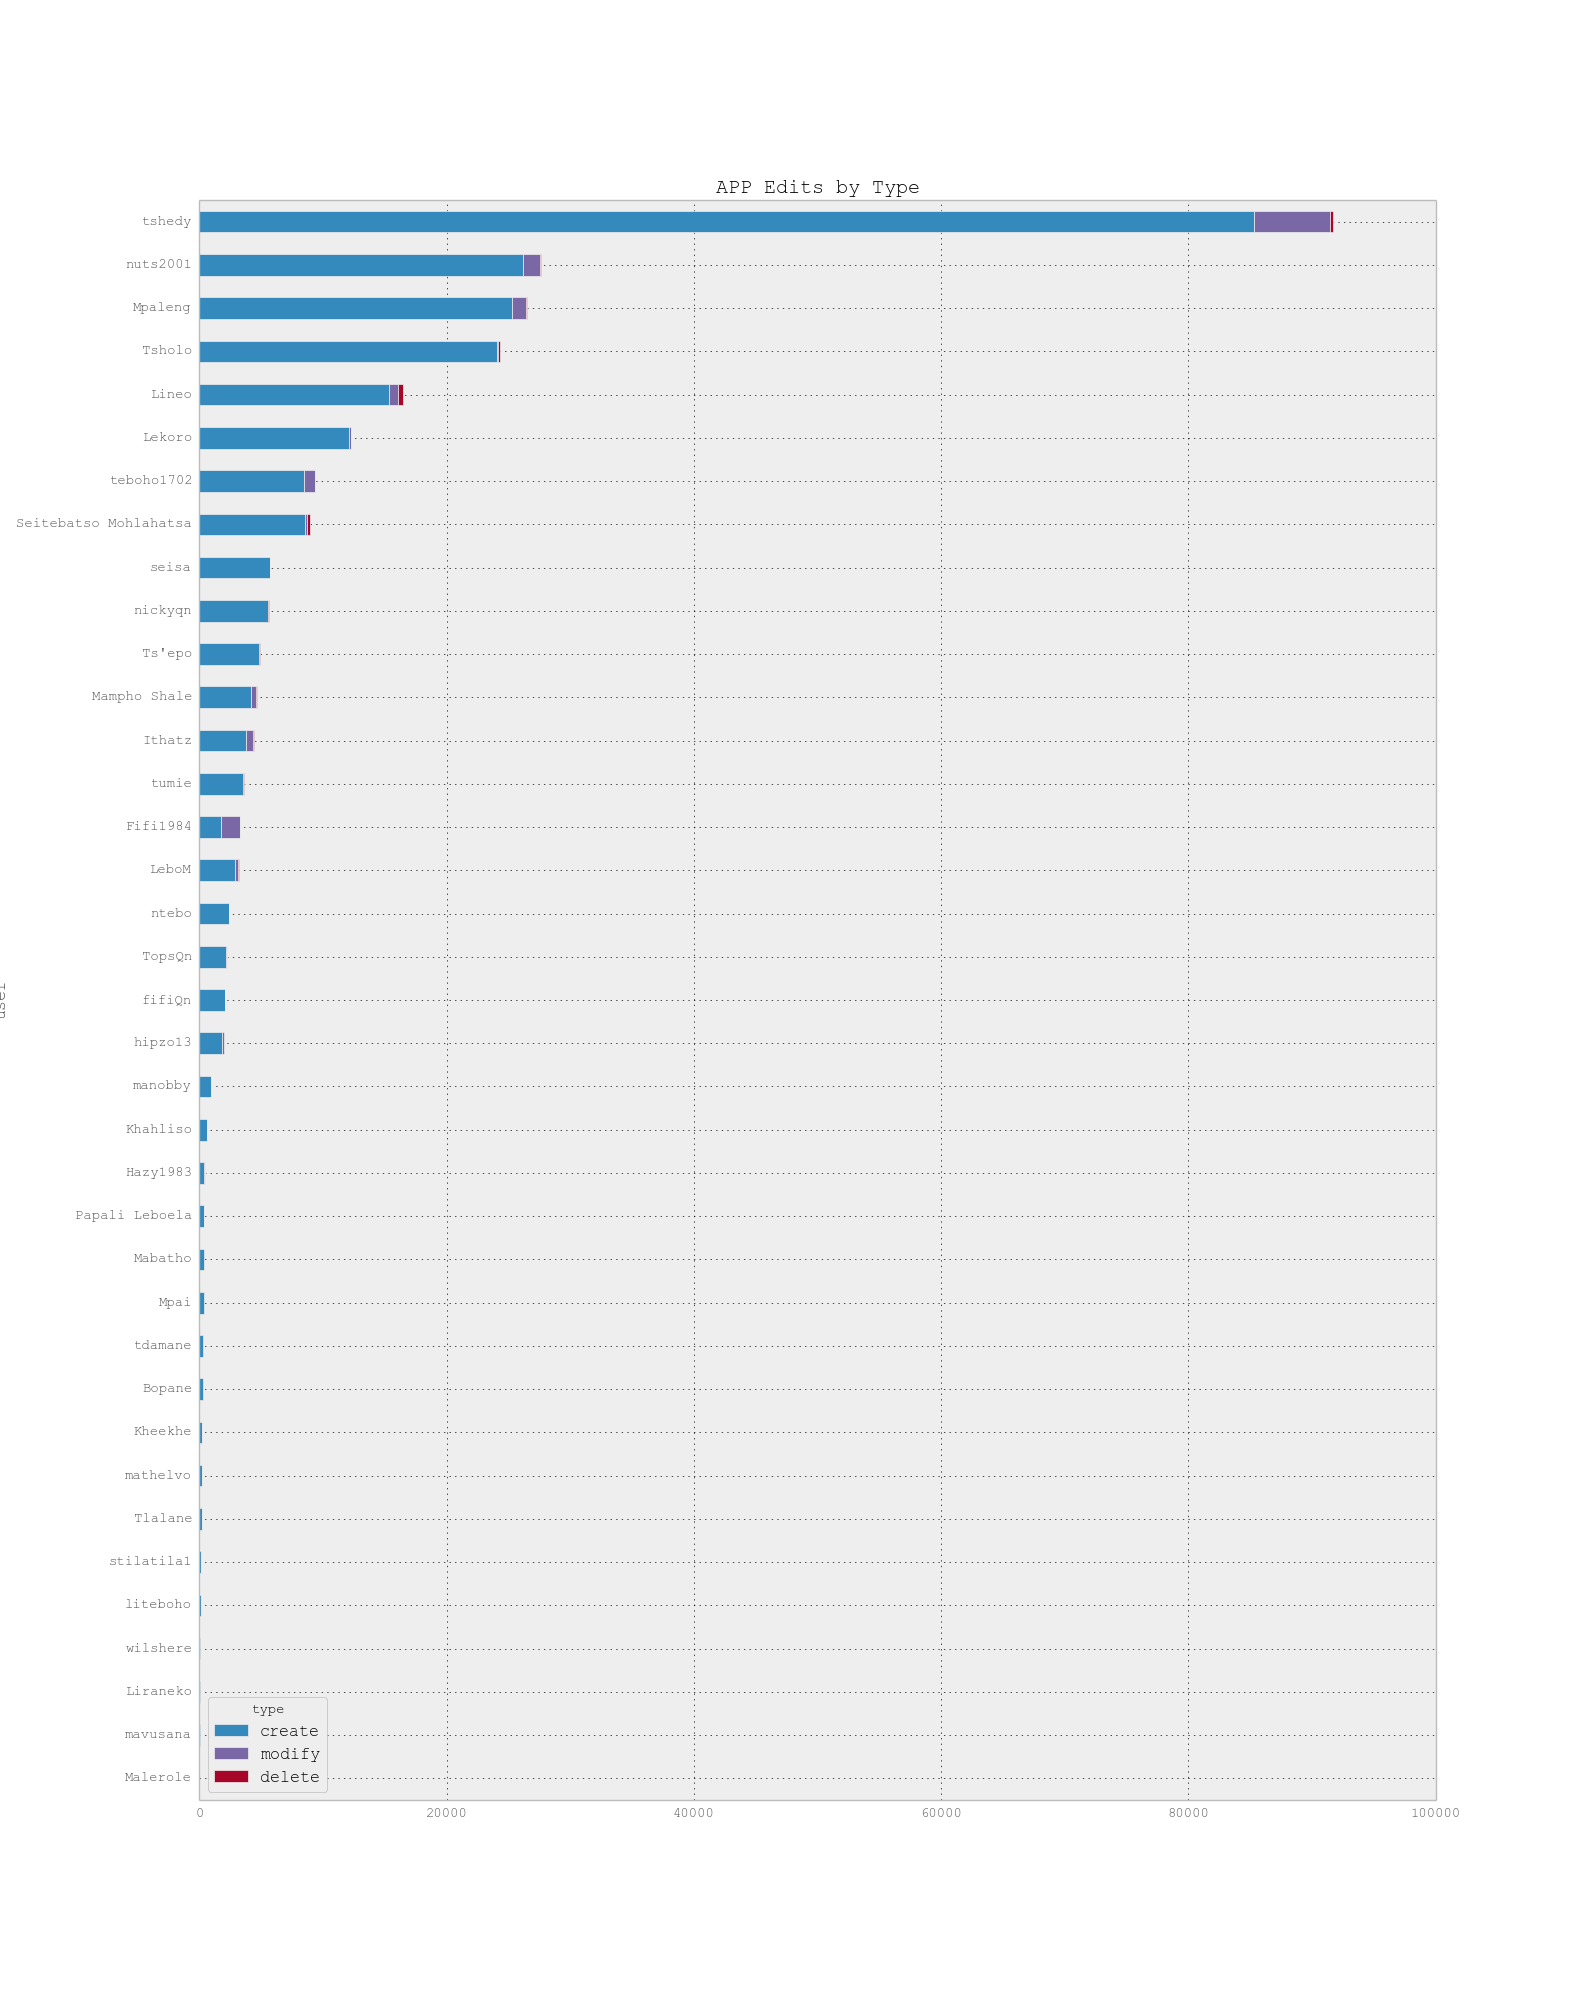
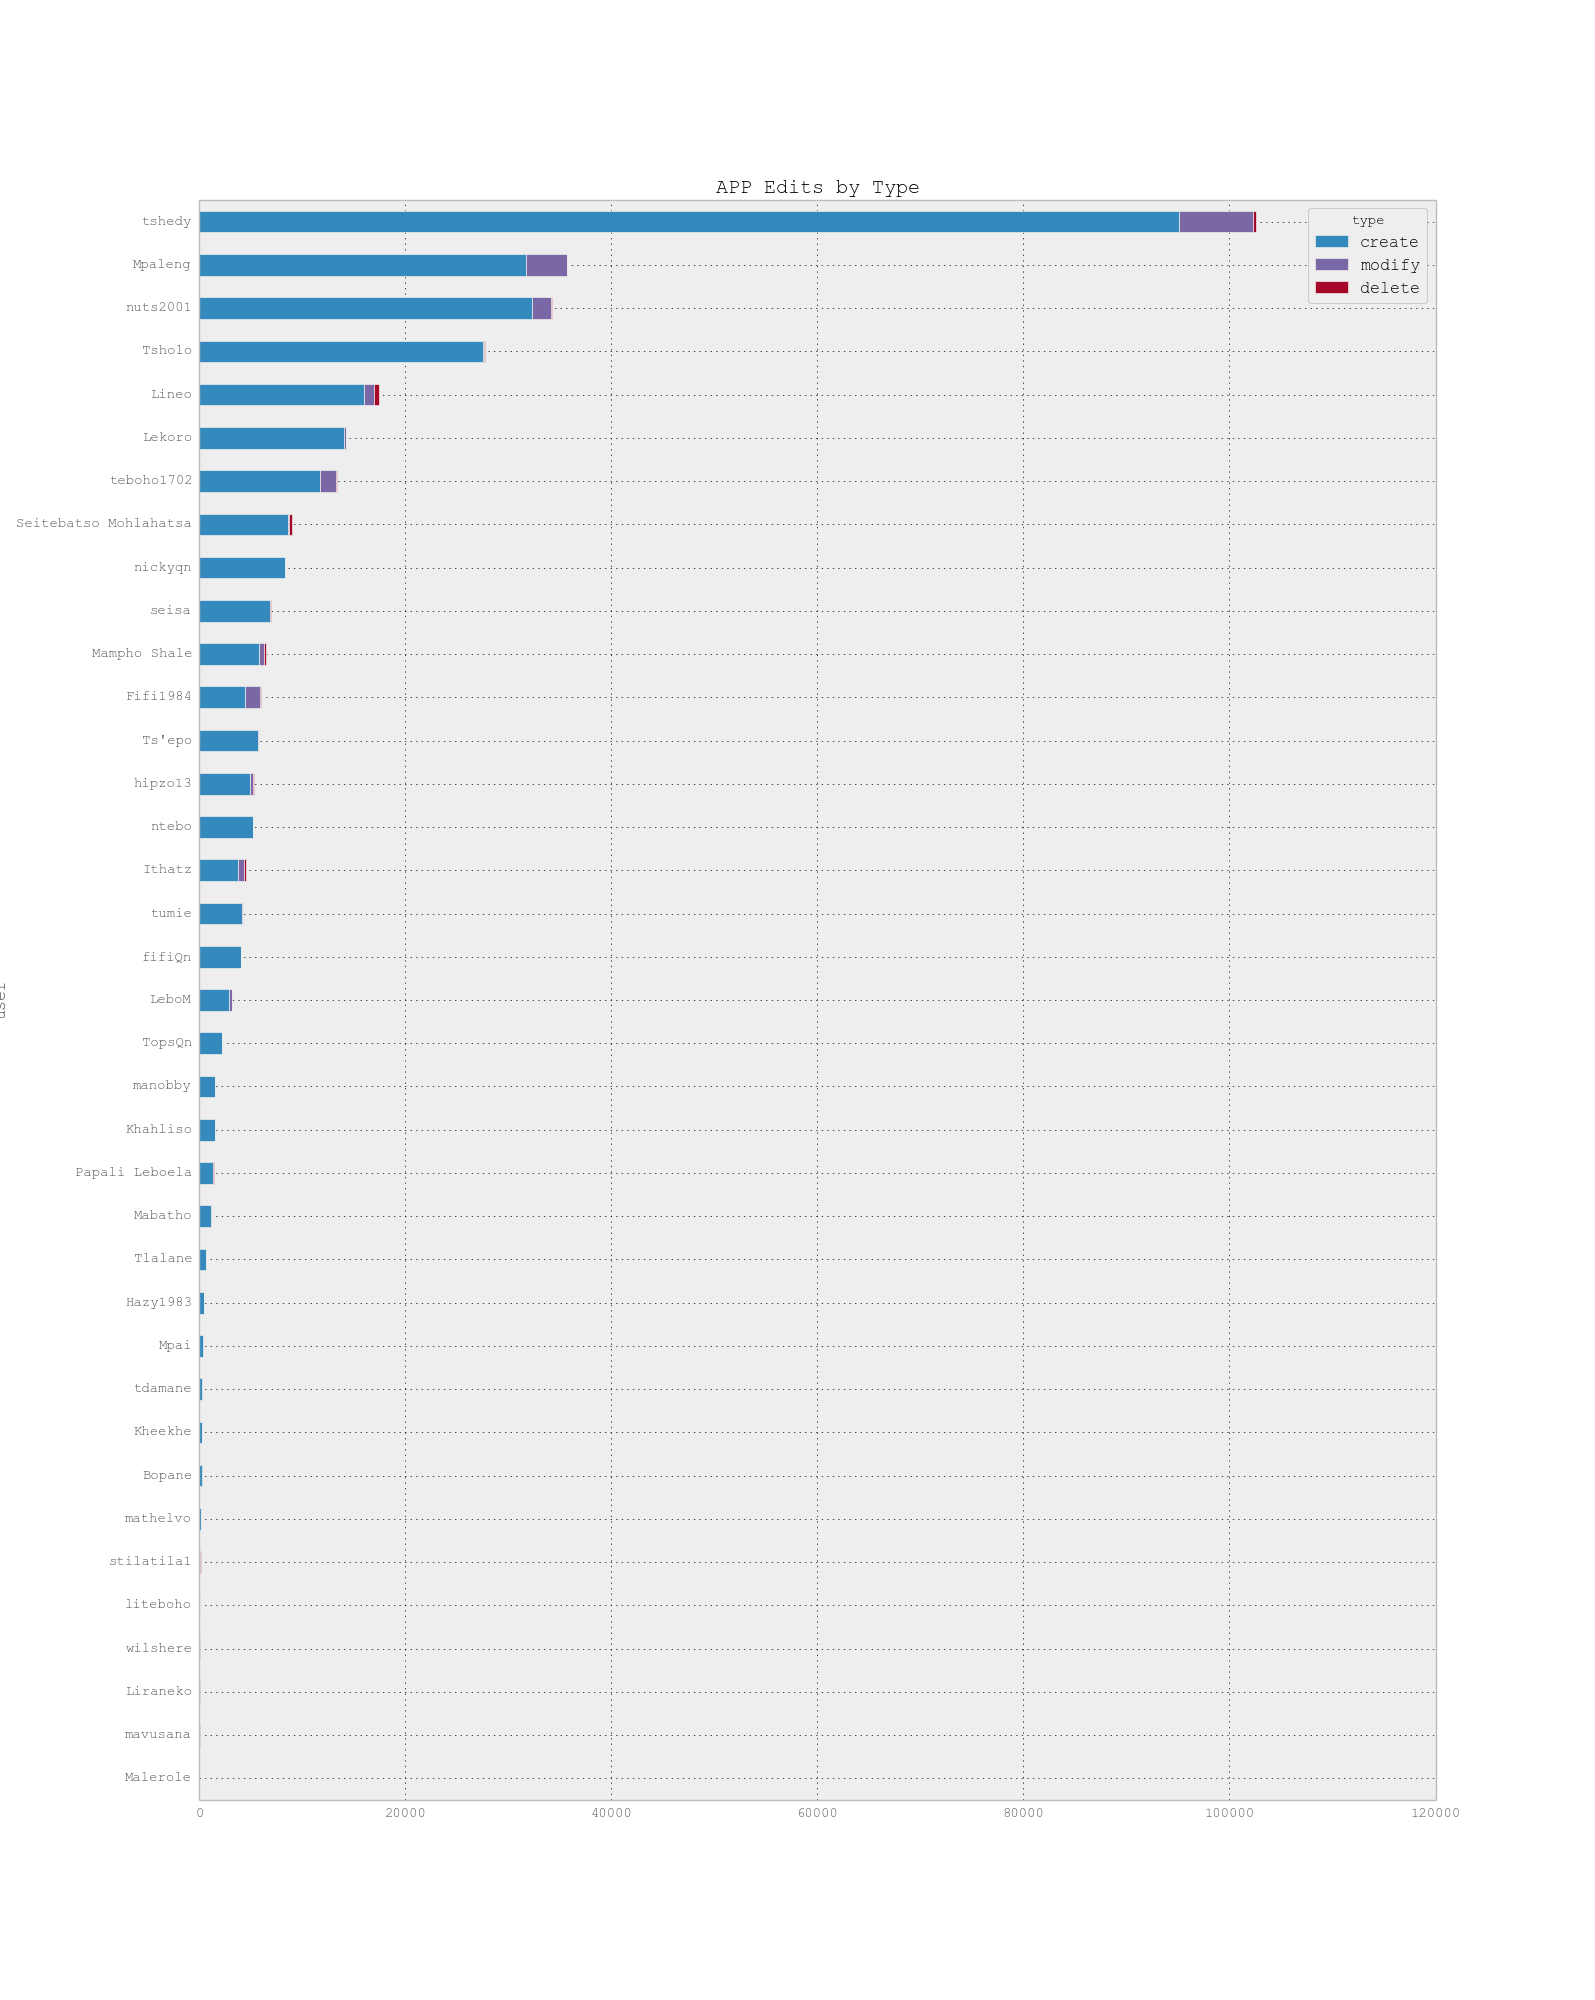
updated stats to 31/07/2015

diff --git a/index.html b/index.html
@@ -69,58 +69,58 @@
     <tr>
       <th>0</th>
       <td>tshedy</td>
-      <td>85287</td>
-      <td>255</td>
-      <td>6179</td>
-      <td>91721</td>
+      <td>95132</td>
+      <td>262</td>
+      <td>7195</td>
+      <td>102589</td>
     </tr>
     <tr>
       <th>1</th>
-      <td>nuts2001</td>
-      <td>26151</td>
-      <td>132</td>
-      <td>1392</td>
-      <td>27675</td>
+      <td>Mpaleng</td>
+      <td>31742</td>
+      <td>69</td>
+      <td>3905</td>
+      <td>35716</td>
     </tr>
     <tr>
       <th>2</th>
-      <td>Mpaleng</td>
-      <td>25313</td>
-      <td>67</td>
-      <td>1121</td>
-      <td>26501</td>
+      <td>nuts2001</td>
+      <td>32275</td>
+      <td>136</td>
+      <td>1846</td>
+      <td>34257</td>
     </tr>
     <tr>
       <th>3</th>
       <td>Tsholo</td>
-      <td>24105</td>
+      <td>27491</td>
       <td>118</td>
-      <td>81</td>
-      <td>24304</td>
+      <td>131</td>
+      <td>27740</td>
     </tr>
     <tr>
       <th>4</th>
       <td>Lineo</td>
-      <td>15349</td>
-      <td>408</td>
-      <td>698</td>
-      <td>16455</td>
+      <td>15985</td>
+      <td>466</td>
+      <td>974</td>
+      <td>17425</td>
     </tr>
     <tr>
       <th>5</th>
       <td>Lekoro</td>
-      <td>12109</td>
-      <td>12</td>
-      <td>160</td>
-      <td>12281</td>
+      <td>13998</td>
+      <td>39</td>
+      <td>217</td>
+      <td>14254</td>
     </tr>
     <tr>
       <th>6</th>
       <td>teboho1702</td>
-      <td>8435</td>
-      <td>32</td>
-      <td>886</td>
-      <td>9353</td>
+      <td>11695</td>
+      <td>36</td>
+      <td>1581</td>
+      <td>13312</td>
     </tr>
     <tr>
       <th>7</th>
@@ -132,62 +132,86 @@
     </tr>
     <tr>
       <th>8</th>
-      <td>seisa</td>
-      <td>5680</td>
-      <td>12</td>
-      <td>1</td>
-      <td>5693</td>
+      <td>nickyqn</td>
+      <td>8280</td>
+      <td>37</td>
+      <td>0</td>
+      <td>8317</td>
     </tr>
     <tr>
       <th>9</th>
-      <td>nickyqn</td>
-      <td>5569</td>
-      <td>36</td>
-      <td>0</td>
-      <td>5605</td>
+      <td>seisa</td>
+      <td>6889</td>
+      <td>21</td>
+      <td>2</td>
+      <td>6912</td>
     </tr>
     <tr>
       <th>10</th>
-      <td>Ts'epo</td>
-      <td>4811</td>
-      <td>41</td>
-      <td>19</td>
-      <td>4871</td>
+      <td>Mampho Shale</td>
+      <td>5836</td>
+      <td>126</td>
+      <td>460</td>
+      <td>6422</td>
     </tr>
     <tr>
       <th>11</th>
-      <td>Mampho Shale</td>
-      <td>4207</td>
-      <td>126</td>
-      <td>356</td>
-      <td>4689</td>
+      <td>Fifi1984</td>
+      <td>4383</td>
+      <td>88</td>
+      <td>1523</td>
+      <td>5994</td>
     </tr>
     <tr>
       <th>12</th>
-      <td>Ithatz</td>
-      <td>3740</td>
-      <td>82</td>
-      <td>612</td>
-      <td>4434</td>
+      <td>Ts'epo</td>
+      <td>5719</td>
+      <td>48</td>
+      <td>22</td>
+      <td>5789</td>
     </tr>
     <tr>
       <th>13</th>
-      <td>tumie</td>
-      <td>3544</td>
-      <td>21</td>
-      <td>14</td>
-      <td>3579</td>
+      <td>hipzo13</td>
+      <td>4868</td>
+      <td>124</td>
+      <td>343</td>
+      <td>5335</td>
     </tr>
     <tr>
       <th>14</th>
-      <td>Fifi1984</td>
-      <td>1757</td>
-      <td>45</td>
-      <td>1517</td>
-      <td>3319</td>
+      <td>ntebo</td>
+      <td>5211</td>
+      <td>17</td>
+      <td>1</td>
+      <td>5229</td>
     </tr>
     <tr>
       <th>15</th>
+      <td>Ithatz</td>
+      <td>3740</td>
+      <td>142</td>
+      <td>612</td>
+      <td>4494</td>
+    </tr>
+    <tr>
+      <th>16</th>
+      <td>tumie</td>
+      <td>4183</td>
+      <td>21</td>
+      <td>14</td>
+      <td>4218</td>
+    </tr>
+    <tr>
+      <th>17</th>
+      <td>fifiQn</td>
+      <td>4009</td>
+      <td>31</td>
+      <td>9</td>
+      <td>4049</td>
+    </tr>
+    <tr>
+      <th>18</th>
       <td>LeboM</td>
       <td>2908</td>
       <td>15</td>
@@ -195,15 +219,7 @@
       <td>3174</td>
     </tr>
     <tr>
-      <th>16</th>
-      <td>ntebo</td>
-      <td>2405</td>
-      <td>17</td>
-      <td>1</td>
-      <td>2423</td>
-    </tr>
-    <tr>
-      <th>17</th>
+      <th>19</th>
       <td>TopsQn</td>
       <td>2186</td>
       <td>8</td>
@@ -211,39 +227,47 @@
       <td>2220</td>
     </tr>
     <tr>
-      <th>18</th>
-      <td>fifiQn</td>
-      <td>2042</td>
-      <td>31</td>
-      <td>8</td>
-      <td>2081</td>
-    </tr>
-    <tr>
-      <th>19</th>
-      <td>hipzo13</td>
-      <td>1869</td>
-      <td>0</td>
-      <td>146</td>
-      <td>2015</td>
-    </tr>
-    <tr>
       <th>20</th>
       <td>manobby</td>
-      <td>956</td>
-      <td>0</td>
-      <td>6</td>
-      <td>962</td>
+      <td>1494</td>
+      <td>7</td>
+      <td>11</td>
+      <td>1512</td>
     </tr>
     <tr>
       <th>21</th>
       <td>Khahliso</td>
-      <td>640</td>
+      <td>1485</td>
       <td>1</td>
       <td>0</td>
-      <td>641</td>
+      <td>1486</td>
     </tr>
     <tr>
       <th>22</th>
+      <td>Papali Leboela</td>
+      <td>1352</td>
+      <td>43</td>
+      <td>0</td>
+      <td>1395</td>
+    </tr>
+    <tr>
+      <th>23</th>
+      <td>Mabatho</td>
+      <td>1137</td>
+      <td>0</td>
+      <td>0</td>
+      <td>1137</td>
+    </tr>
+    <tr>
+      <th>24</th>
+      <td>Tlalane</td>
+      <td>625</td>
+      <td>3</td>
+      <td>0</td>
+      <td>628</td>
+    </tr>
+    <tr>
+      <th>25</th>
       <td>Hazy1983</td>
       <td>401</td>
       <td>27</td>
@@ -251,23 +275,7 @@
       <td>442</td>
     </tr>
     <tr>
-      <th>23</th>
-      <td>Papali Leboela</td>
-      <td>347</td>
-      <td>43</td>
-      <td>0</td>
-      <td>390</td>
-    </tr>
-    <tr>
-      <th>24</th>
-      <td>Mabatho</td>
-      <td>384</td>
-      <td>0</td>
-      <td>0</td>
-      <td>384</td>
-    </tr>
-    <tr>
-      <th>25</th>
+      <th>26</th>
       <td>Mpai</td>
       <td>349</td>
       <td>0</td>
@@ -275,7 +283,7 @@
       <td>349</td>
     </tr>
     <tr>
-      <th>26</th>
+      <th>27</th>
       <td>tdamane</td>
       <td>301</td>
       <td>0</td>
@@ -283,7 +291,15 @@
       <td>301</td>
     </tr>
     <tr>
-      <th>27</th>
+      <th>28</th>
+      <td>Kheekhe</td>
+      <td>290</td>
+      <td>3</td>
+      <td>0</td>
+      <td>293</td>
+    </tr>
+    <tr>
+      <th>29</th>
       <td>Bopane</td>
       <td>287</td>
       <td>0</td>
@@ -291,28 +307,12 @@
       <td>287</td>
     </tr>
     <tr>
-      <th>28</th>
-      <td>Kheekhe</td>
-      <td>248</td>
-      <td>3</td>
-      <td>0</td>
-      <td>251</td>
-    </tr>
-    <tr>
-      <th>29</th>
+      <th>30</th>
       <td>mathelvo</td>
       <td>181</td>
       <td>0</td>
       <td>5</td>
       <td>186</td>
-    </tr>
-    <tr>
-      <th>30</th>
-      <td>Tlalane</td>
-      <td>181</td>
-      <td>3</td>
-      <td>0</td>
-      <td>184</td>
     </tr>
     <tr>
       <th>31</th>
